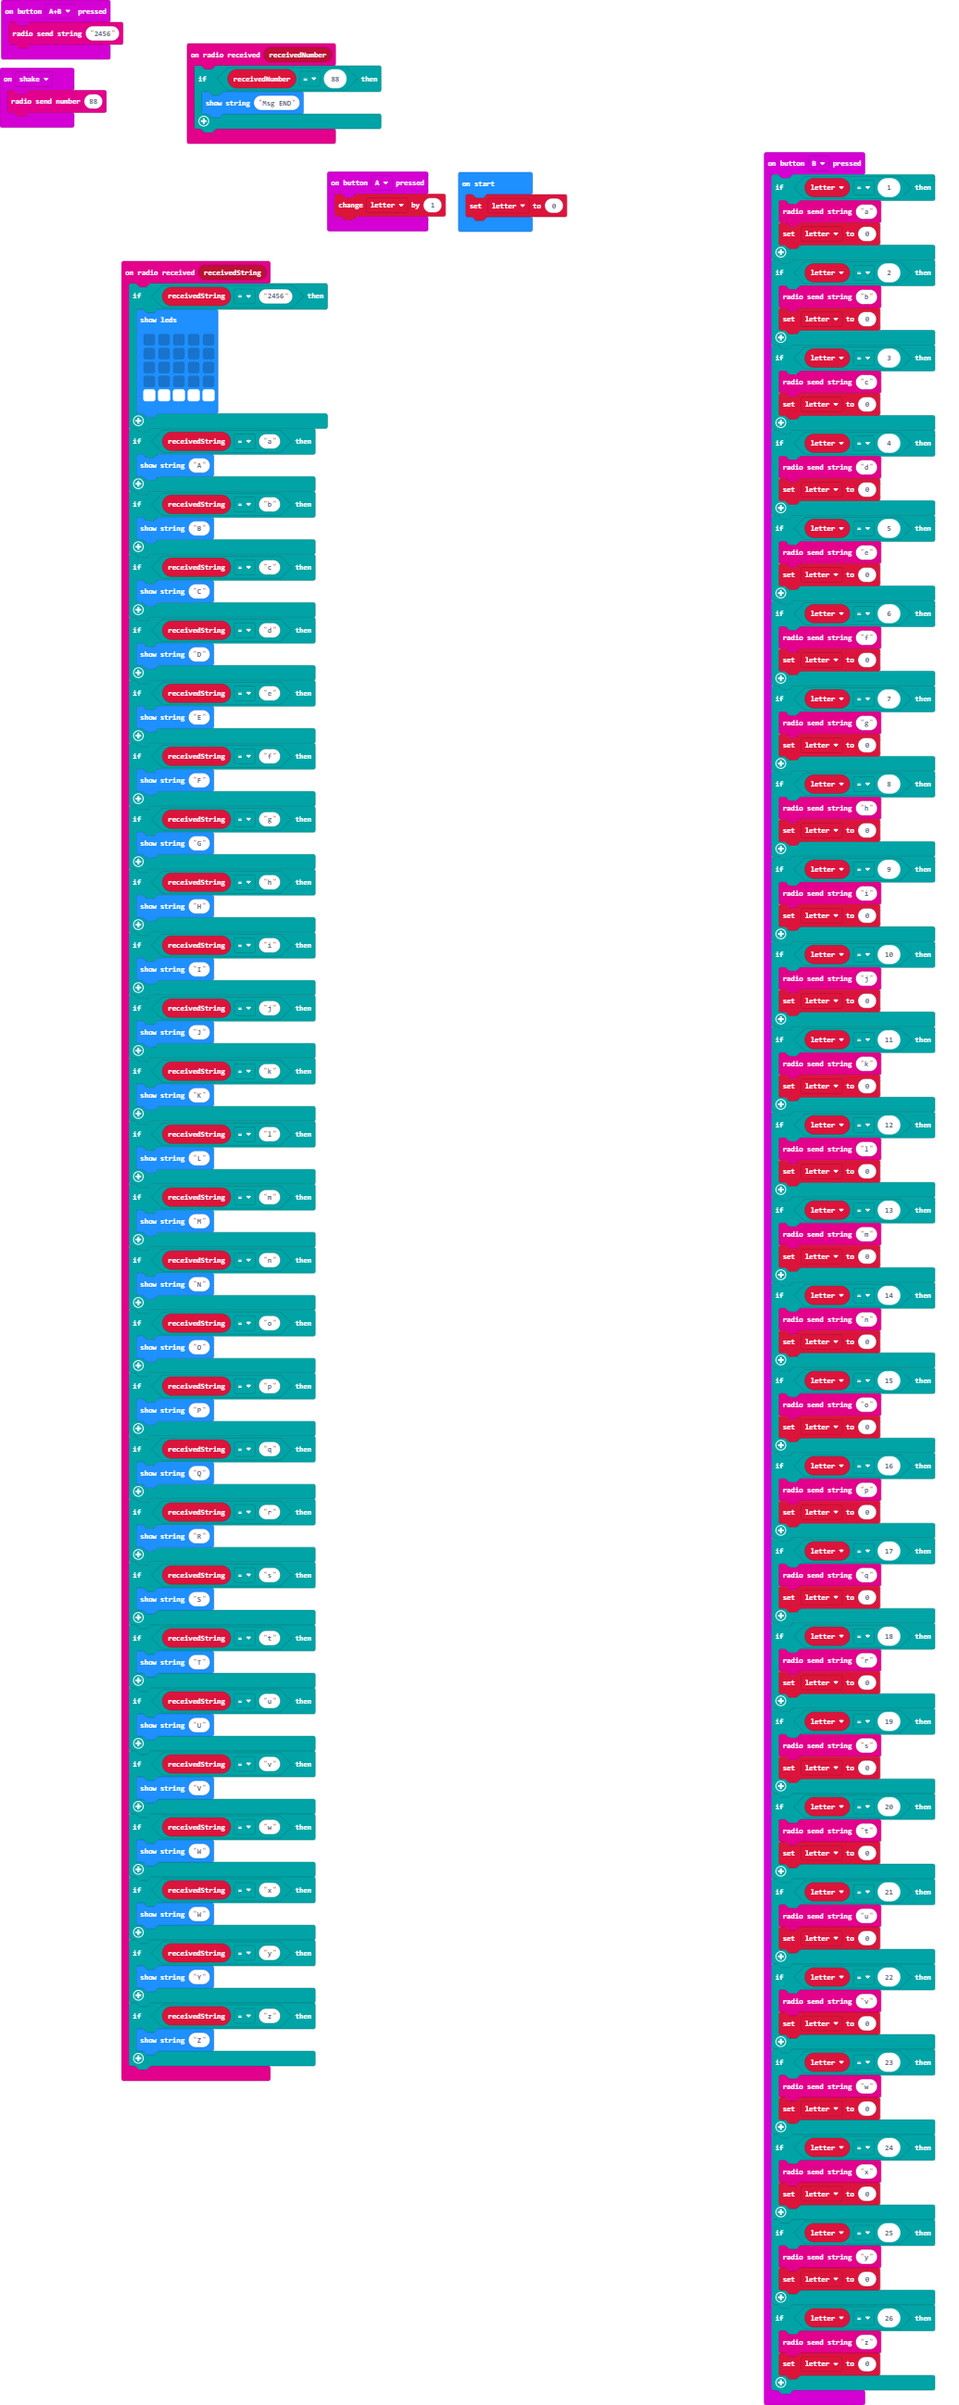
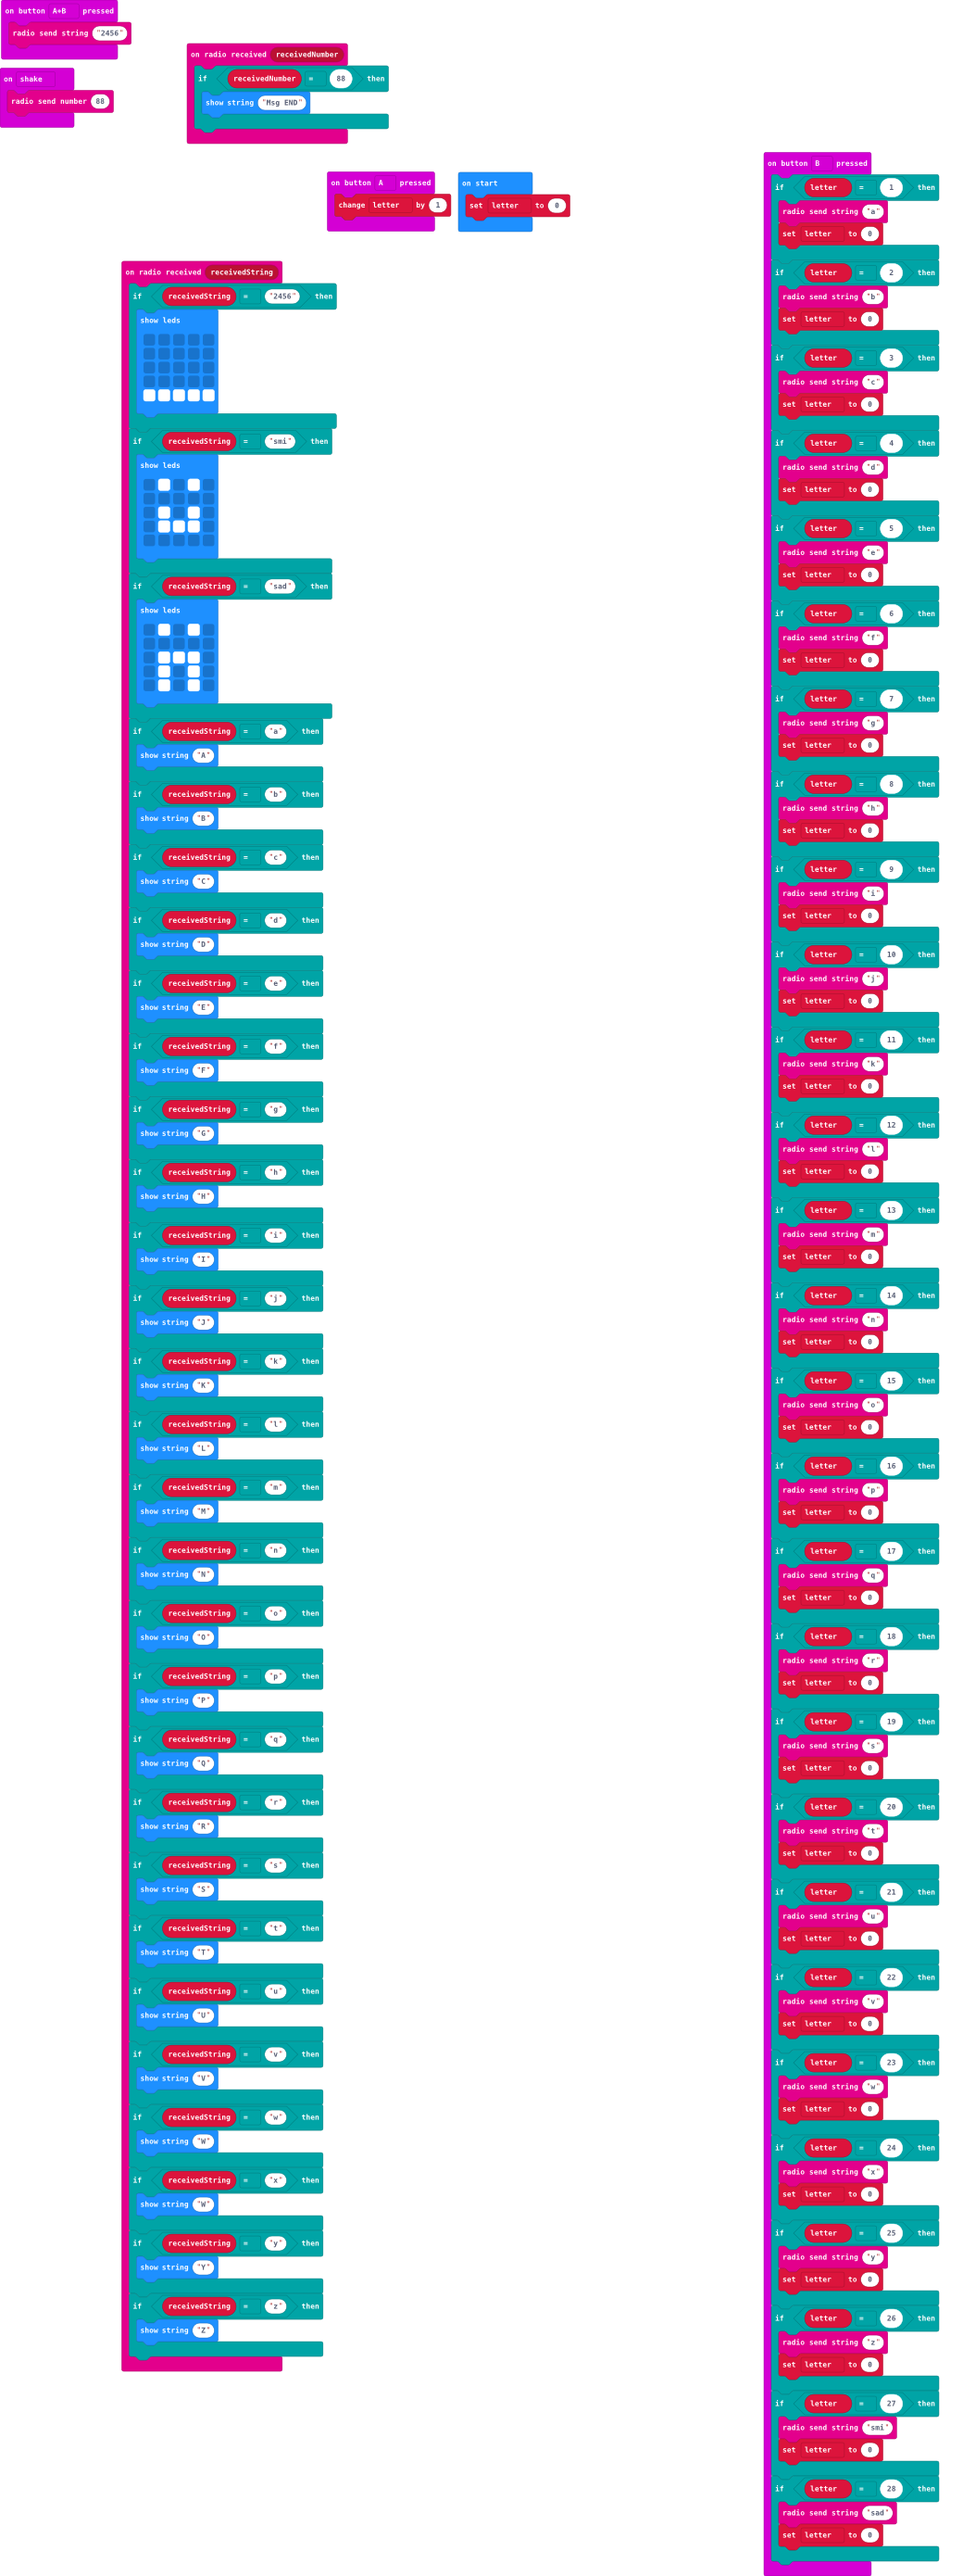
Update main.blocks, main.ts

Changed region(s): [[0.1237, 0.0, 0.5874, 0.9361], [0.7729, 0.0312, 0.9894, 1.0], [0.0, 0.0, 0.1546, 0.0624]]

diff --git a/main.ts b/main.ts
@@ -19,6 +19,24 @@ radio.onReceivedString(function (receivedString) {
             # # # # #
             `)
     }
+    if (receivedString == "smi") {
+        basic.showLeds(`
+            . # . # .
+            . . . . .
+            . # . # .
+            . # # # .
+            . . . . .
+            `)
+    }
+    if (receivedString == "sad") {
+        basic.showLeds(`
+            . # . # .
+            . . . . .
+            . # # # .
+            . # . # .
+            . # . # .
+            `)
+    }
     if (receivedString == "a") {
         basic.showString("A")
     }
@@ -201,6 +219,14 @@ input.onButtonPressed(Button.B, function () {
     }
     if (letter == 26) {
         radio.sendString("z")
+        letter = 0
+    }
+    if (letter == 27) {
+        radio.sendString("smi")
+        letter = 0
+    }
+    if (letter == 28) {
+        radio.sendString("sad")
         letter = 0
     }
 })
